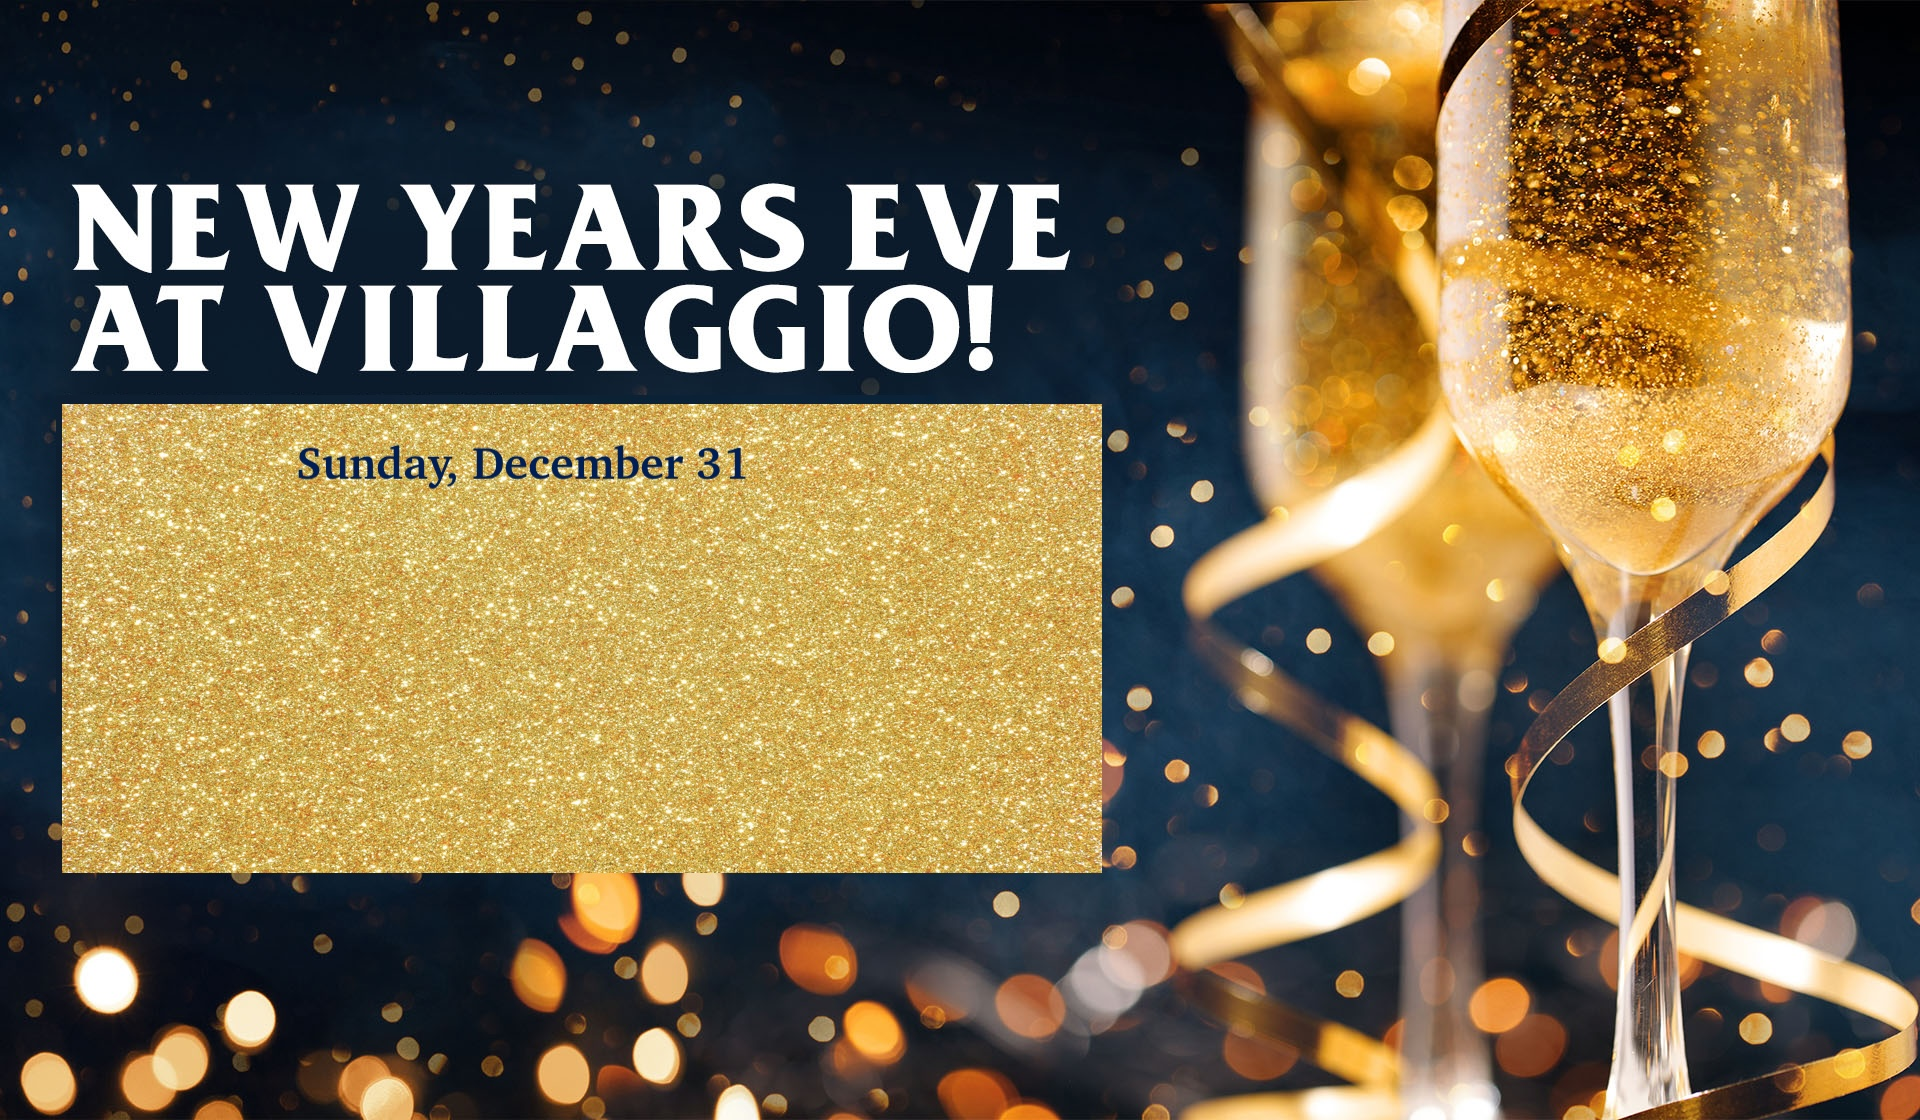
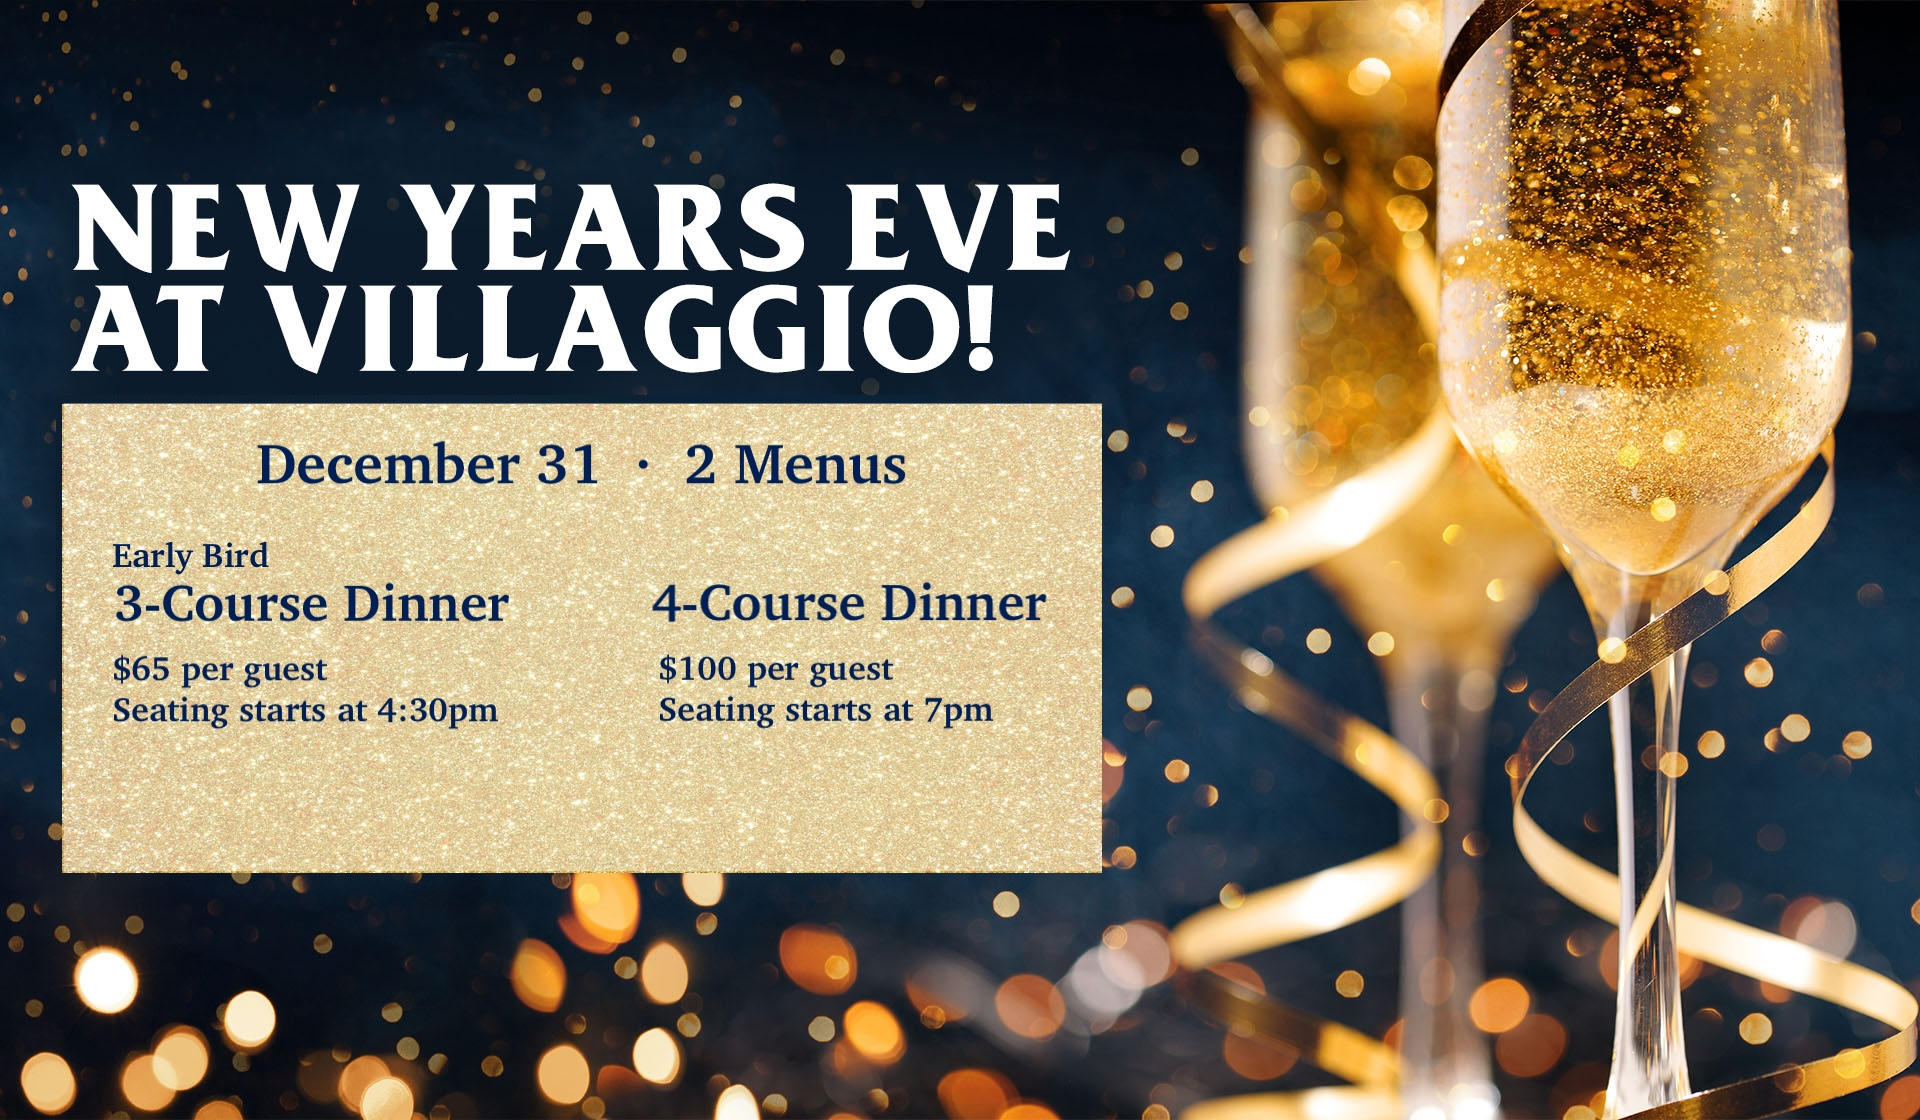
moved nye to homepage, and added 3 holiday event slides

Changed region(s): [[0.0312, 0.3438, 0.5938, 0.7812]]

diff --git a/app/assets/stylesheets/static_pages.scss b/app/assets/stylesheets/static_pages.scss
@@ -25,11 +25,23 @@ h5.inheritA a{font-weight:inherit;font-size:inherit;font-style:inherit;color:inh
 	// &.group2 .groupItem{width:48%;}
 	// &.group2 .i2{float:right;}
 
-	@media (min-width:990px){
+	@media (min-width:768px){
 		.groupItem{display:inline-block;}
 		&.group3 .groupItem{width:31%;}
 		&.group2 .groupItem{width:48%;}
 		&.group2 .i2{float:right;}
+	}
+	@media (max-width:989px){
+		&.mobNn{
+			.sectionWrap{max-width:500px;}
+			.groupItem{width:100%;}
+			.groupItem+.groupItem{margin-top:20px;}
+		}
+	}
+	@media (max-width:767px){
+		.sectionWrap{max-width:500px;}
+		.groupItem{width:100%;}
+		.groupItem+.groupItem{margin-top:20px;}
 	}
 }
 
@@ -454,16 +466,47 @@ h5.inheritA a{font-weight:inherit;font-size:inherit;font-style:inherit;color:inh
 	}
 
 
-	.nyeHome{padding:50px 0;background-color:rgba($nye, .2);text-align:center;
-		h3{font-size:33px;font-weight:bold;margin:0;}
-		h4{font-size:25px;margin-bottom:10px;}
-		p{color:$black;padding-bottom:0;}
-		p a{color:$burg;font-weight:bold;}
+	.nyeHome{padding:40px 0 60px;text-align:center;
+		background-color:#FFFFF7;
+	  background-image: linear-gradient(#FFFFF7, #fff, #FFFBE5);
+
+		.sectionWrap{max-width:1200px;}
+		h3{font-size:33px;font-weight:bold;margin:0; color:darken($nye, 5%);}
+		h4{margin-bottom:10px;font-family:$open;}
+		h4 br{display:none;}
+		p{padding-bottom:0;}
 		span{color:inherit;}
+		.textBox{
+			p{color:$black;}
+			p a{color:$burg;font-weight:bold;}
+			span.instr{font-style:italic;color:#777;}
+		}
 
-		.groupStyle{margin-top:30px;}
-		.groupItem{box-shadow:0px 10px 30px rgba($black, .1);}
+		.groupStyle{margin-top:40px;}
+		img{box-shadow:0px 10px 30px rgba($black, .1);}
+		h5{font-size:20px;font-weight:bold;margin-bottom:3px;}
 
+
+		@media (max-width:989px){padding:20px 0 40px;
+			h3{font-size:28px;}
+			h4{font-size:19px;}
+			p{font-size:15px;line-height:1.4em;}
+			h5{font-size:19px;}
+		}
+		@media (max-width:767px){padding:15px 0 20px;
+			.sectionWrap{max-width:450px;}
+			.groupStyle{margin-top:20px;}
+			h3{font-size:24px;}
+			h4{font-size:17px;}
+			h5{font-size:18px;}
+			.textBox p{font-size:14px;}
+		}
+
+		@media (max-width:500px){
+			h3{font-size:20px;}
+			h4{font-size:16px;}
+			h5{font-size:17px;}
+		}
 	}
 }
 
@@ -918,9 +961,11 @@ h5.inheritA a{font-weight:inherit;font-size:inherit;font-style:inherit;color:inh
 
 	h1{margin-bottom:2px;}
 	h2{font-size:22px;font-family:$body;}
+	h2 br{display:none;}
 	p{margin:0;padding:0;color:$black;}
 	p a{color:$burg;font-weight:bold;}
 	span{color:inherit;}
+	span.instr{font-size:15px;font-style:italic;}
 	.menuImg:hover{opacity:.85;}
 
 	@media (max-width:989px){
@@ -937,11 +982,15 @@ h5.inheritA a{font-weight:inherit;font-size:inherit;font-style:inherit;color:inh
 	}
 	@media (max-width:500px){
 		.simpleTitle{padding:15px 0;}
-		h1{font-size:22px;}
-		h2{font-size:17px;}
-		p{font-size:14px;}
+		h1{font-size:21px;line-height:1.3em;margin-bottom:5px;}
+		h2{font-size:17px;
+			span{display:none;}
+			br{display:block;}
+		}
+		p, span.instr{font-size:14px;}
 	}
 }
+.simpleMenuPage.xmas h1{color:$red;}
 //************ 2024 MENU (din/lunch) UPDATE ************//
 
 

diff --git a/config/routes.rb b/config/routes.rb
@@ -16,8 +16,8 @@ Rails.application.routes.draw do
     get '/pairing', to: 'static_pages#pairing'
     get '/events', to: 'static_pages#event-list'
     get '/event-list', to: 'static_pages#event-list'
-    get '/nye', to: 'static_pages#nye' #nye
-    get '/new-years-eve', to: 'static_pages#nye' #nye
+    get '/nye', to: 'static_pages#home' #nye
+    get '/new-years-eve', to: 'static_pages#home' #nye
     get '/christmas', to: 'static_pages#christmas' #christmas
     get '/valentines', to: 'static_pages#home' #valentines
     get '/daddy-daughter-date', to: 'static_pages#home' #daddy-daughter-date
